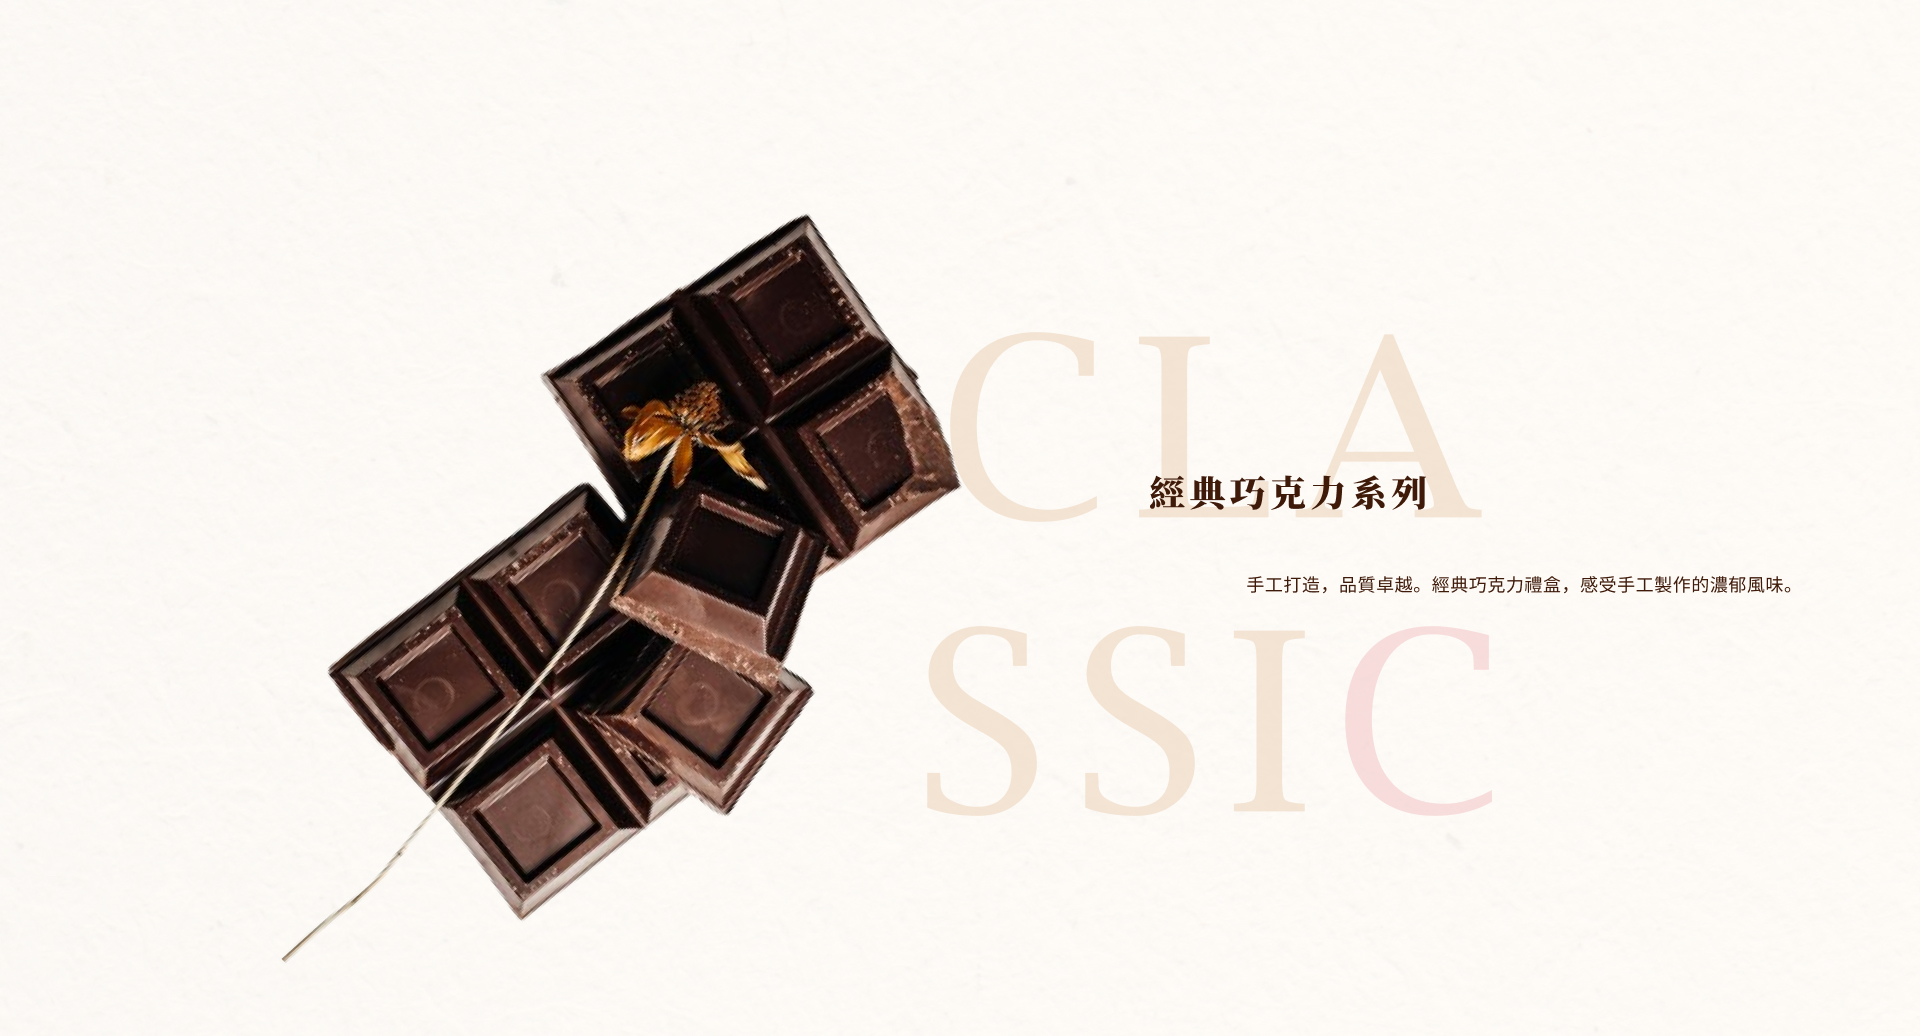
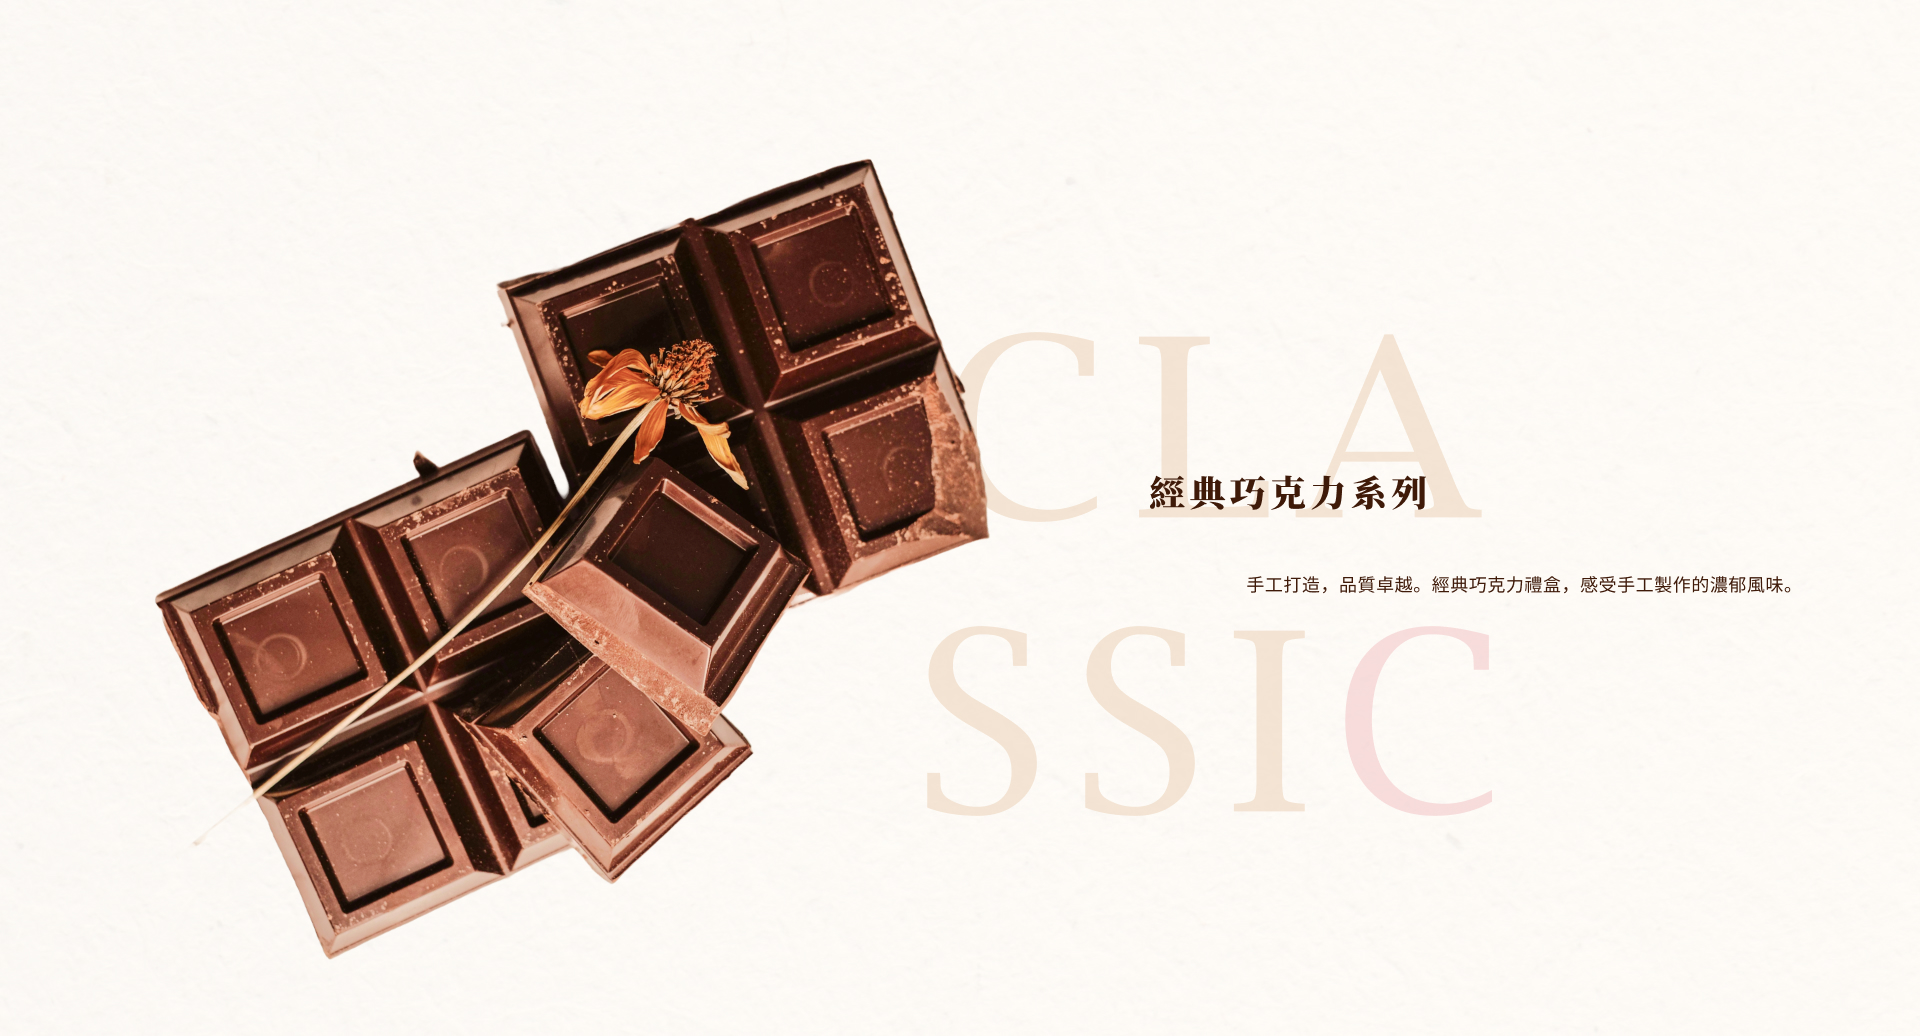
更新banner

Changed region(s): [[0.0625, 0.1544, 0.5312, 0.9266]]

diff --git a/shop.html b/shop.html
@@ -35,46 +35,62 @@
     </script>
     <header></header>
     <main>
-        
-            <div id="bannerCycle"></div>
-            <script type="text/babel">
 
-                const { useEffect } = React;
+        <div id="bannerCycle"></div>
+        <script type="text/babel">
 
-                function App() {
+            const { useEffect } = React;
 
-                    useEffect(() => {
-                        $(function () {
-                            $('#imgCycle').after('<div id="nav"></div>').cycle({
+            function App() {
+                const initCycle = () => {
+                    $(function () {
+                        $('#imgCycle').after('<div id="nav"></div>').cycle({
 
-                                fx: 'fade', //輪播方式
-                                timeout: 4000, //輪播速度
-                                delay: 5000, //第一次第一章圖停留時間
-                                pager: '#nav',
-                            });
+                            fx: 'fade', //輪播方式
+                            timeout: 4000, //輪播速度
+                            delay: 5000, //第一次第一章圖停留時間
+                            pager: '#nav',
+                            fit: true,
                         });
-                    }, []);
-                    return (<>
-                        <div id="cycle">
+                    });
 
-                            <div class="banner_box" >
-                                <div id="imgCycle">
-                                    <img src="../images/shop_images/shop_banner.jpg" alt="" />
-                                    <img src="../images/shop_images/shop_banner2.jpg" alt="" />
-                                </div>
-                                {/* <div className="navWrap"><nav>導覽列位置</nav><div> */}
-                            </div>
-
-
-                        </div>
-                    </>)
                 }
 
-                ReactDOM
-                    .createRoot(document.querySelector('#bannerCycle'))
-                    .render(<App />)
-            </script>
-        
+                useEffect(() => {
+                    initCycle();
+                    // 當視窗大小改變時，重新初始化輪播
+                    const handleResize = () => {
+                        $('#imgCycle').cycle('destroy'); // 先銷毀原本的輪播
+                        initCycle(); // 重新初始化
+                    };
+                    window.addEventListener('resize', handleResize);
+
+                    // 清理事件監聽器
+                    return () => {
+                        window.removeEventListener('resize', handleResize);
+                    };
+                }, []);
+                return (<>
+                    <div id="cycle">
+
+                        <div class="banner_box" >
+                            <div id="imgCycle">
+                                <img src="./images/shop_images/shop_banner.jpg" alt="" />
+                                <img src="./images/shop_images/shop_banner2.jpg" alt="" />
+                            </div>
+                            {/* <div className="navWrap"><nav>導覽列位置</nav><div> */}
+                        </div>
+
+
+                    </div>
+                </>)
+            }
+
+            ReactDOM
+                .createRoot(document.querySelector('#bannerCycle'))
+                .render(<App />)
+        </script>
+
 
 
 
@@ -461,7 +477,7 @@
     <script src="https://code.jquery.com/jquery-3.7.1.min.js"></script>
     <script src="./js/shop.js"></script>
     <script src="./js/jQuery/jquery.cycle.all.js"></script>
-    
+
     <script src="./js/Menu.js"></script>
 </body>
 
